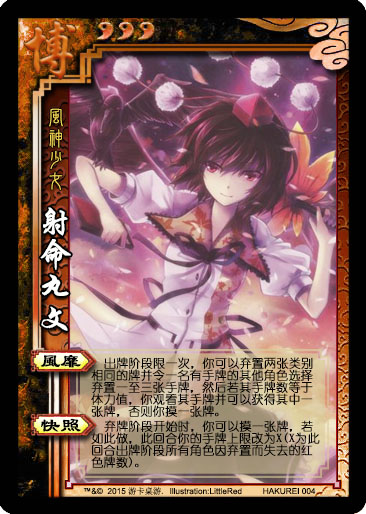
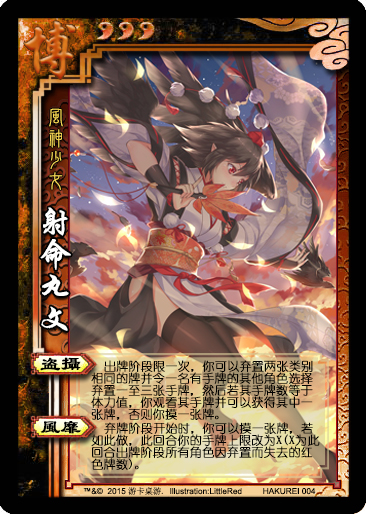
添加画师一览 修改了文文的插画

diff --git a/README.md b/README.md
@@ -13,7 +13,7 @@ Email: kouchyakun@gmail.com
 
 *************************************
 
-Current version: 0.1.2 alpha
+Current version: 0.1.3 alpha
 
 *************************************
 
@@ -41,7 +41,10 @@ Acknowledgements:
 		czb0598
 		doublebit
 
-	Finally, I shall express my gratitude and apology to the illustrators of the raw images of the generals and cards, whose names are presented in another document. Due to the lack of illustrators in my team, I had to pick the pictures from Pixiv without their authors' permission. I would like to apologize again for arbitrarily using your works in my program, and I would like to claim again that this program will never be used for commercial purpose.
+	Finally, I shall express my gratitude and apology to the illustrators of the raw images of the generals and cards, whose names are
+	presented in illustrators.xlsx. Due to the lack of illustrators in my team, I had to pick the pictures from Pixiv without their authors'
+	permission. I would like to apologize again for arbitrarily using your works in my program, and I would like to claim again that this
+	program will never be used for commercial purpose.
 
 
 
